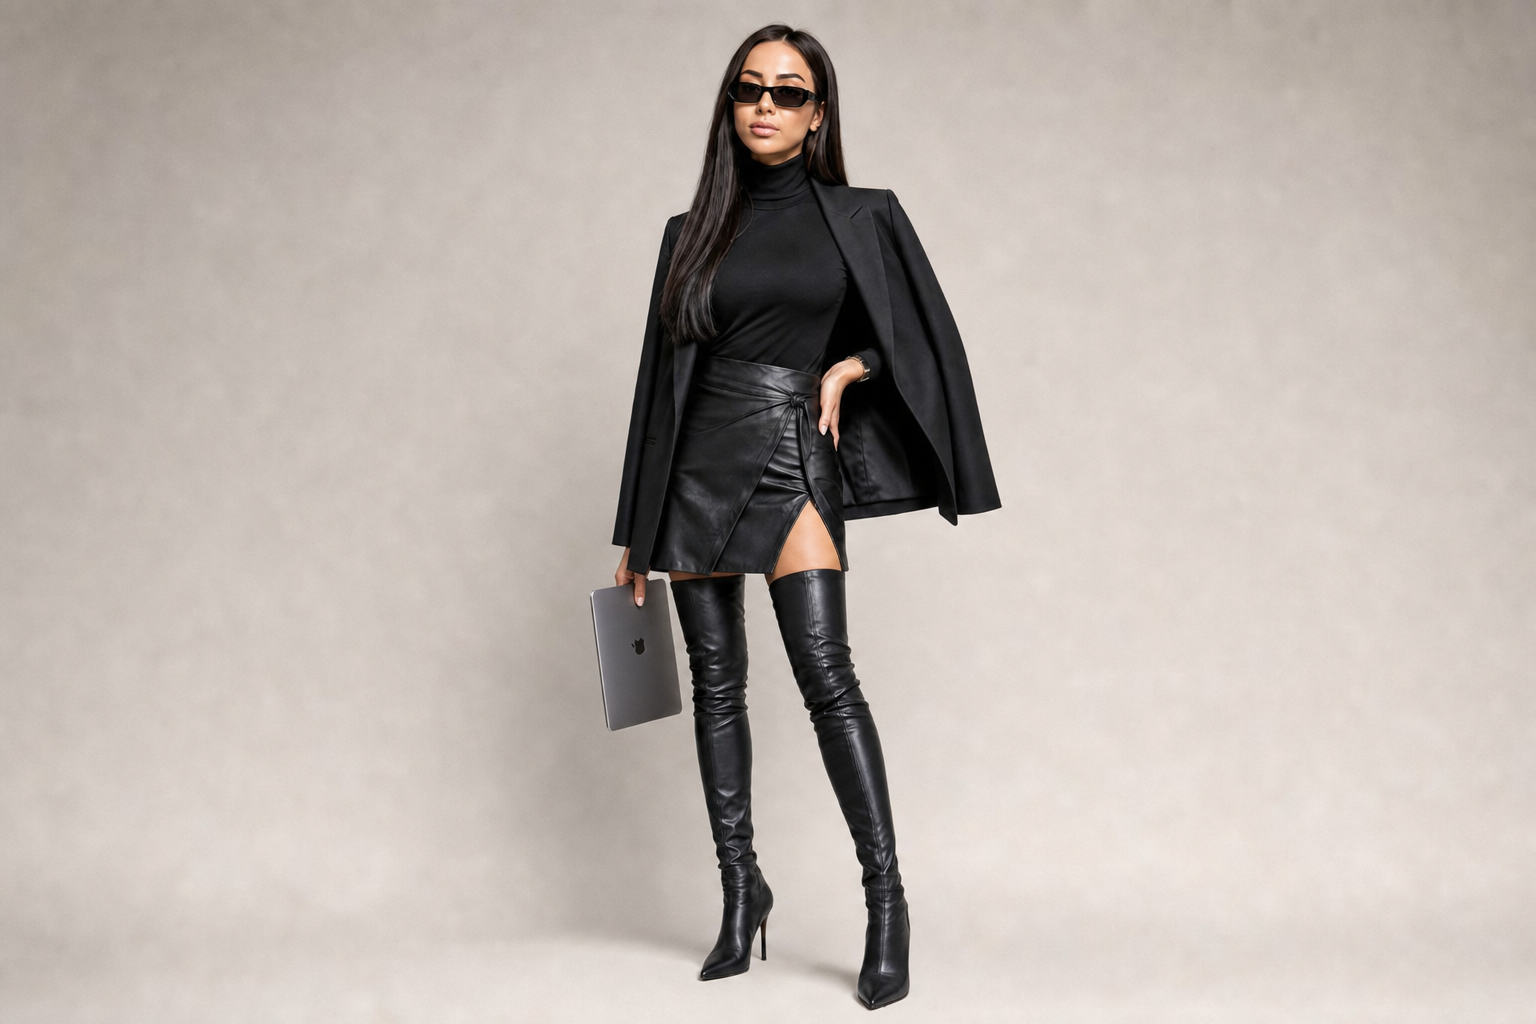
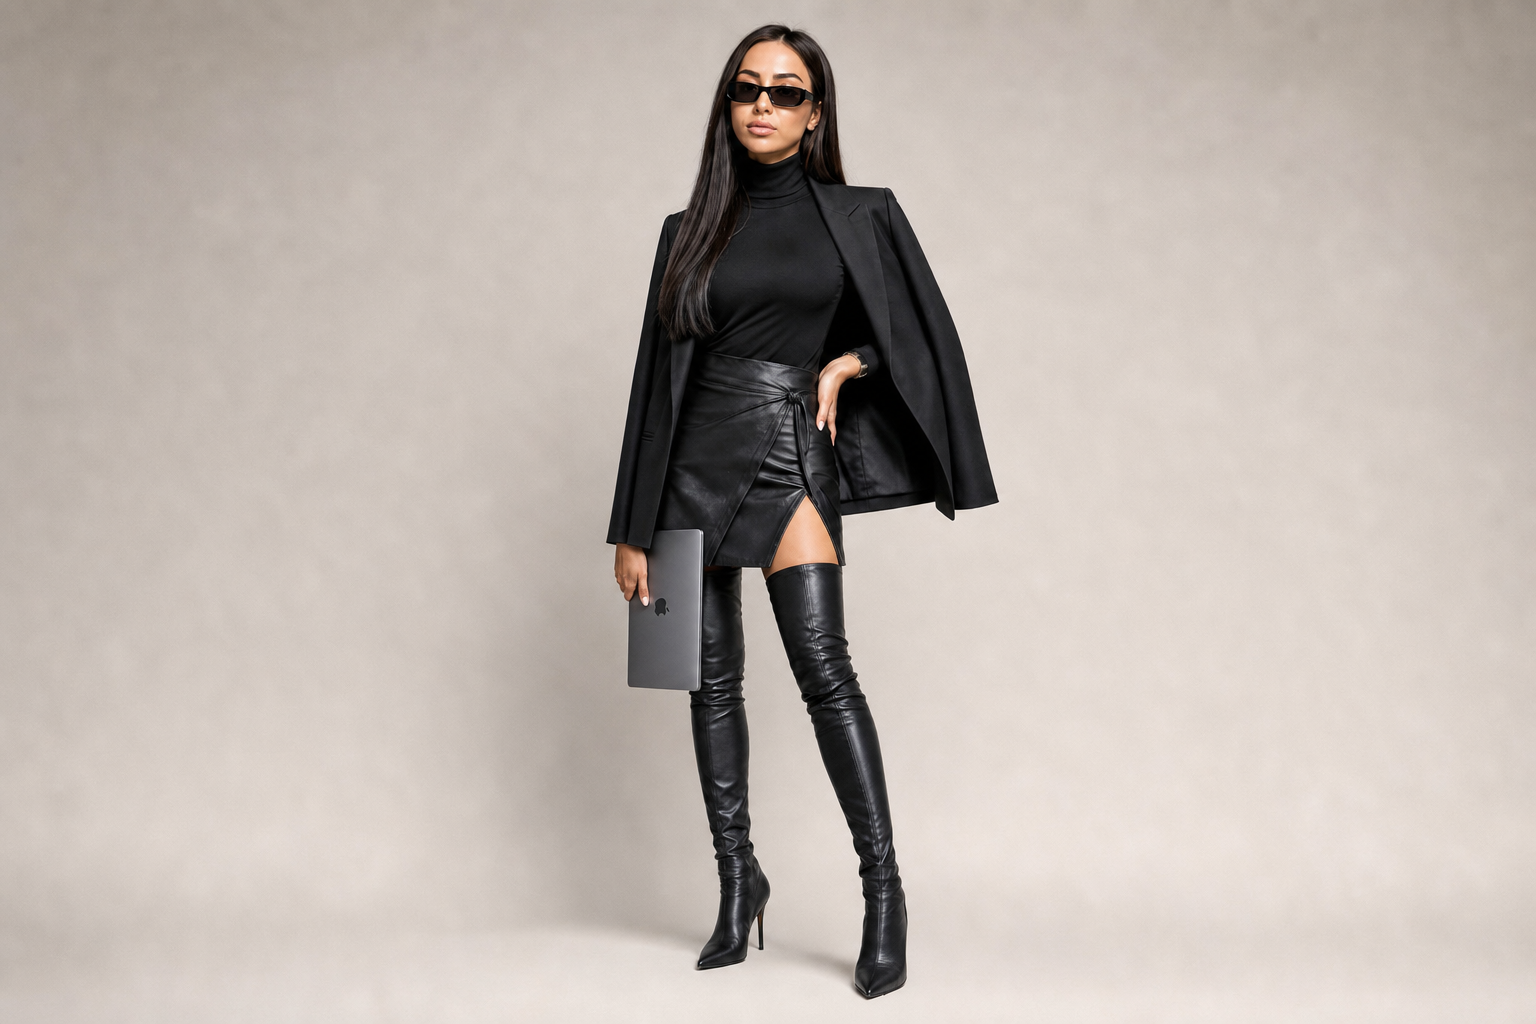
Opravit hero MacBook — správné proporce, čistá kůže bez fleků.
Nová verze z originální fotky s kabelkou.

Changed region(s): [[0.375, 0.0312, 0.6562, 1.0], [0.5625, 0.1875, 0.5938, 0.2188]]

diff --git a/public/nia/index.html b/public/nia/index.html
@@ -408,7 +408,7 @@ img{display:block;max-width:100%}
     </div>
     <div class="hero-visual">
       <div class="hero-figure">
-        <img src="/nia/photos/nia-hero-macbook-light.png?v=3" alt="Nia Dobyšar — webdesignérka" width="409" height="1011" loading="eager">
+        <img src="/nia/photos/nia-hero-macbook-light.png?v=4" alt="Nia Dobyšar — webdesignérka" width="409" height="1011" loading="eager">
       </div>
     </div>
     <div class="hero-copy">
